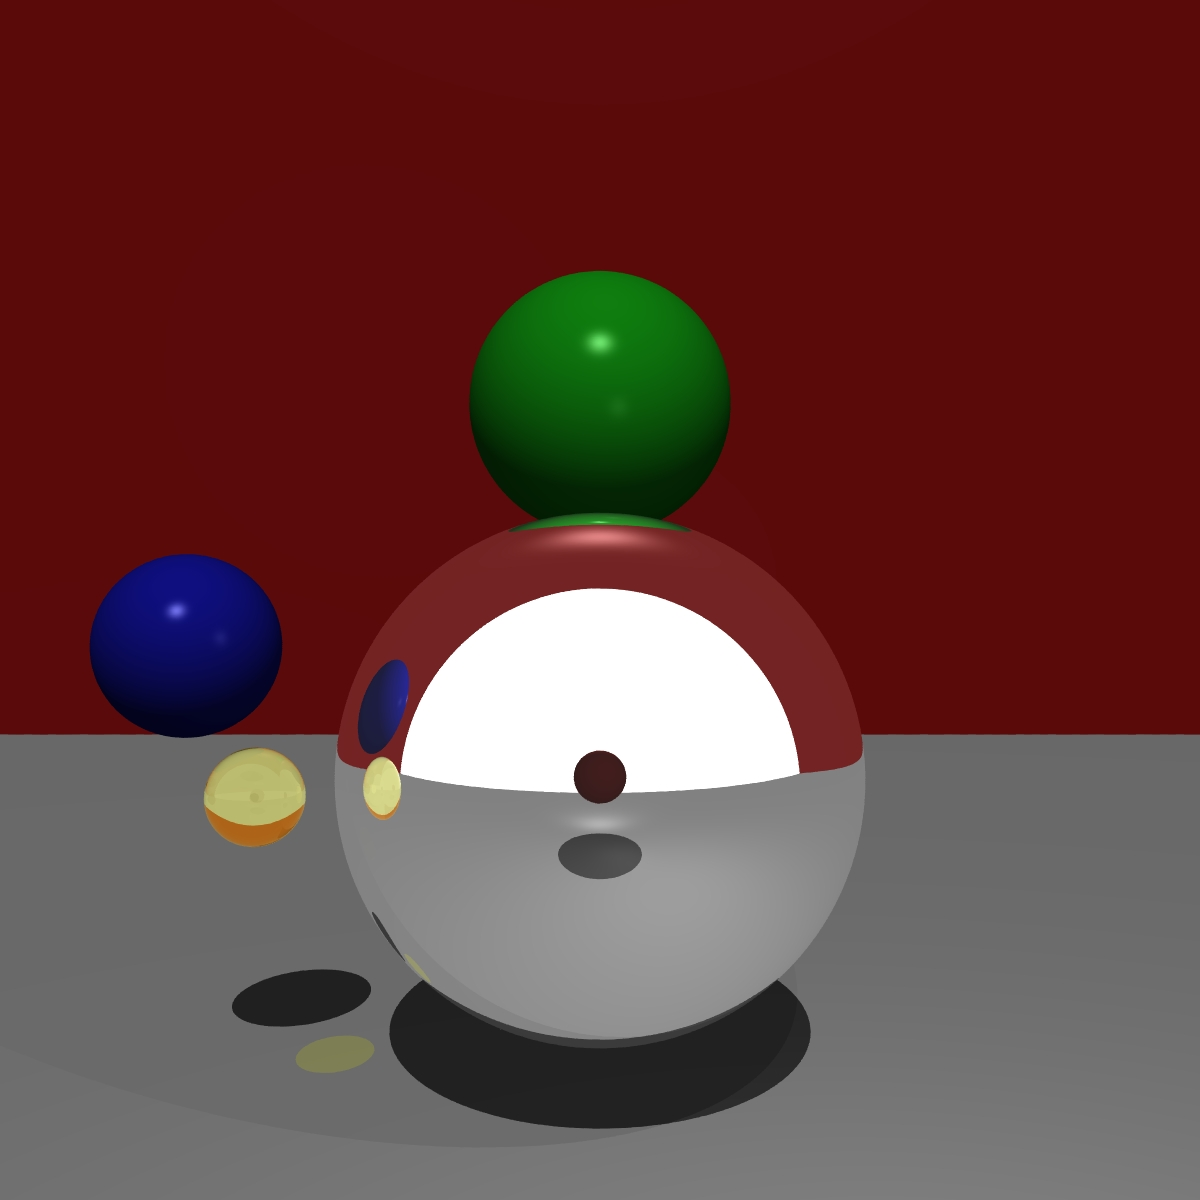
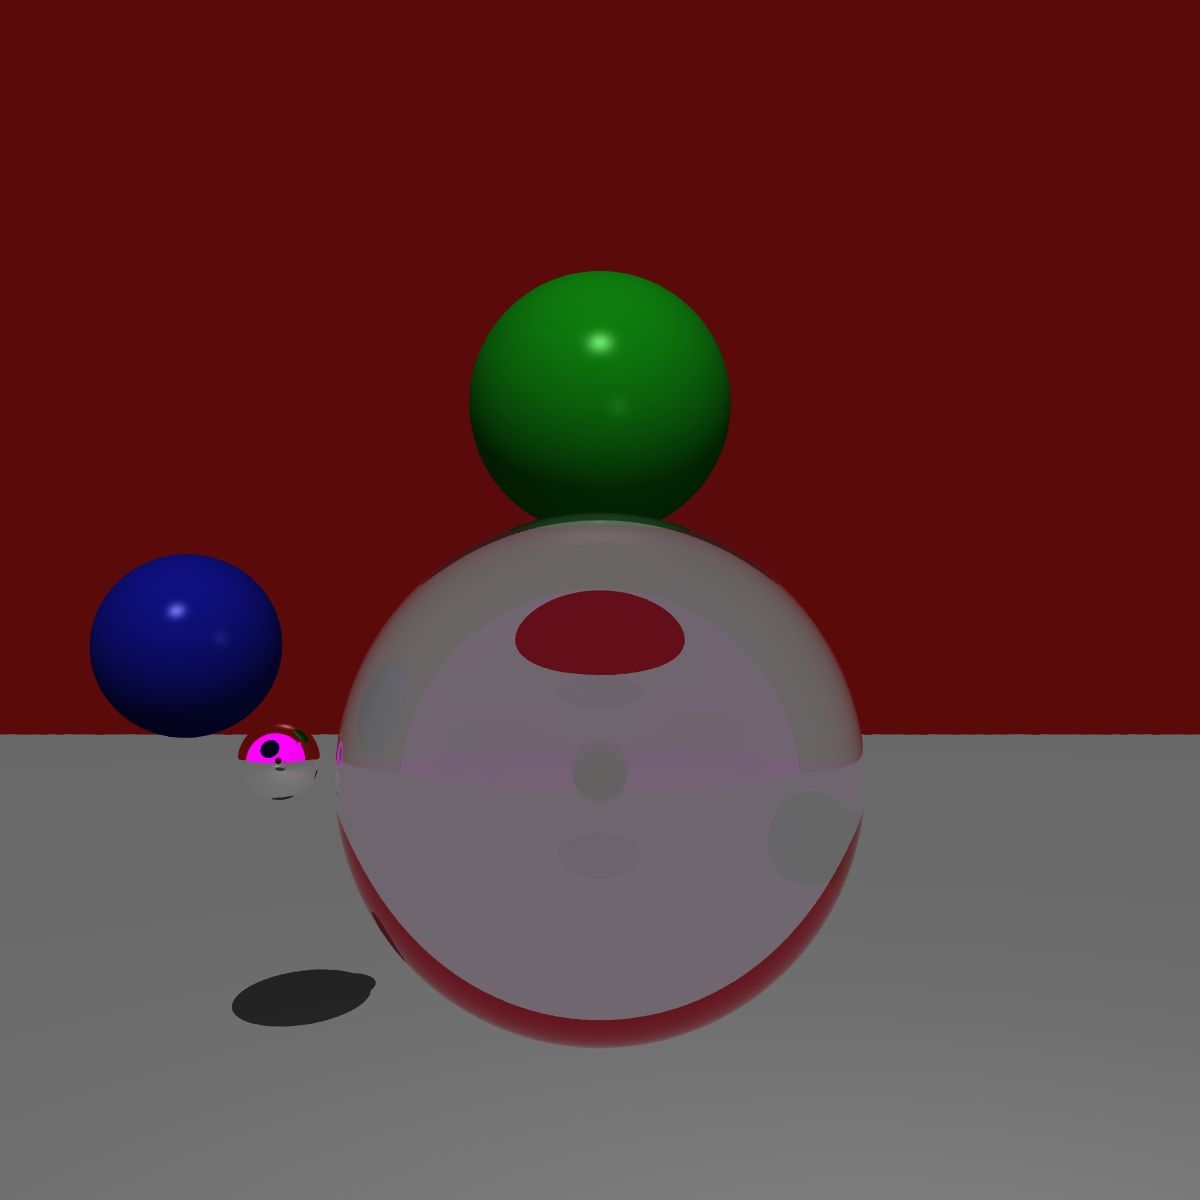
water fix

Changed region(s): [[0.1542, 0.4008, 0.74, 0.9558]]

diff --git a/Src/Primitive.cpp b/Src/Primitive.cpp
@@ -4,7 +4,7 @@
 
 std::vector<Primitive*> Primitive::objectList = std::vector<Primitive*>();
 std::vector<Light*> Light::lightList = std::vector<Light*>();
-Vec3f Primitive::defaultColor = Vec3f{1, 1, 1};
+Vec3f Primitive::defaultColor = Vec3f{1, 0, 1};
 
 //maybe too costly in time
 bool sortByDepth(const Primitive& a, const Primitive& b)
@@ -76,6 +76,7 @@ Vec3f Primitive::definitiveColor(Vec3f orig, Vec3f dir, Vec3f camPos, int depth)
     
     Vec3f fragPos = orig + dir * (float)distance;
     Vec3f reflectionDir;
+    Vec3f colorMultiply;
 
     switch (objectList[index]->mat.type)
     {
@@ -84,13 +85,14 @@ Vec3f Primitive::definitiveColor(Vec3f orig, Vec3f dir, Vec3f camPos, int depth)
             
             break;
         case MaterialType::TRANSPARENT:
-            return objectList[index]->transparentCalculation(fragPos, camPos, dir, depth) + objectList[index]->mat.ambient * (objectList[index]->mat.alpha / 2.0f);
+            colorMultiply = (Vec3f)objectList[index]->mat.ambient * objectList[index]->mat.alpha + Vec3f{1, 1, 1} * (1 - objectList[index]->mat.alpha);
+            return objectList[index]->transparentCalculation(fragPos, camPos, dir, depth) * colorMultiply;
 
             break;
         case MaterialType::REFLECTIVE:
-            
-            reflectionDir = (dir.reflect(objectList[index]->normalAtPoint(fragPos))).normalize();
-            return definitiveColor(fragPos, reflectionDir, camPos, --depth) + objectList[index]->mat.ambient;
+            colorMultiply = (Vec3f)objectList[index]->mat.ambient;
+            reflectionDir = (dir.reflect(objectList[index]->normalAtPoint(fragPos, dir))).normalize();
+            return definitiveColor(fragPos, reflectionDir, camPos, --depth) * colorMultiply;
 
             break;
         default:
@@ -104,9 +106,8 @@ Vec3f Primitive::transparentCalculation(Vec3f fragPos, Vec3f camPos, Vec3f dir, 
 
     Vec3f normal = normalAtPoint(fragPos, dir);
     double ri = retrieveNormalDir(normal, dir) ? 1.0 / mat.ior : mat.ior;
-    double cosTheta = std::fmin((-dir).dot(normal), 1.0);
+    double cosTheta = (-dir).dot(normal);
     double sinTheta = std::sqrt(1.0 - cosTheta * cosTheta);
-    bool canRefract = ri * sinTheta < 1.0f;
     float kr = Material::reflectance(cosTheta, ri);
 
     Vec3f color;
@@ -114,13 +115,16 @@ Vec3f Primitive::transparentCalculation(Vec3f fragPos, Vec3f camPos, Vec3f dir, 
     Vec3f refractColor{0,0,0};
     depth -= 1;
 
+    bool cannotRefract = ri * sinTheta > 1.0;
+
+
     Vec3f reflectDir = (dir.reflect(normal)).normalize();
     reflectColor = definitiveColor(fragPos, reflectDir, camPos, depth);
-    
-    if (canRefract) {
+    if (!cannotRefract) {
         Vec3f refractDir = dir.refract(normal, ri);
         refractColor = definitiveColor(fragPos, refractDir, camPos, depth);
     }
+    else kr = 1;
 
     color = reflectColor * kr + refractColor * (1.0f - kr);
 

diff --git a/Src/main.cpp b/Src/main.cpp
@@ -41,10 +41,10 @@ int main(int argc, char* argv [])
         Circle c0(Vec3f{0, 0, -310}, 300, Mc0);
 
         Material Mc4 {Color::colorFromFloat(1, 1, 0)};
-        Mc4.alpha = 0.3f;
+        Mc4.alpha = 0;
         Mc4.ior = 1.5f;
         Mc4.type = MaterialType::TRANSPARENT;
-        Material Mc1 {Color::colorFromFloat(0.1, 0.1, 0.1)};
+        Material Mc1 {Color::colorFromFloat(1, 1, 1)};
         Mc1.type = MaterialType::REFLECTIVE;
         Circle c1(Vec3f{0, -200, 1500}, 300, Mc4);
 
@@ -64,7 +64,7 @@ int main(int argc, char* argv [])
         };
         Circle c3(Vec3f{-450, -50, 1420}, 100, Mc3);
         
-        Circle c4(Vec3f{-350, -200, 1320}, 50, Mc1);
+        Circle c4(Vec3f{-400, -200, 1620}, 50, Mc1);
         Material Mc5 {
             Color::colorFromFloat(0.20725, 0.20725, 0.20725),
             Color::colorFromFloat(0.7, 0.7, 0.7),
